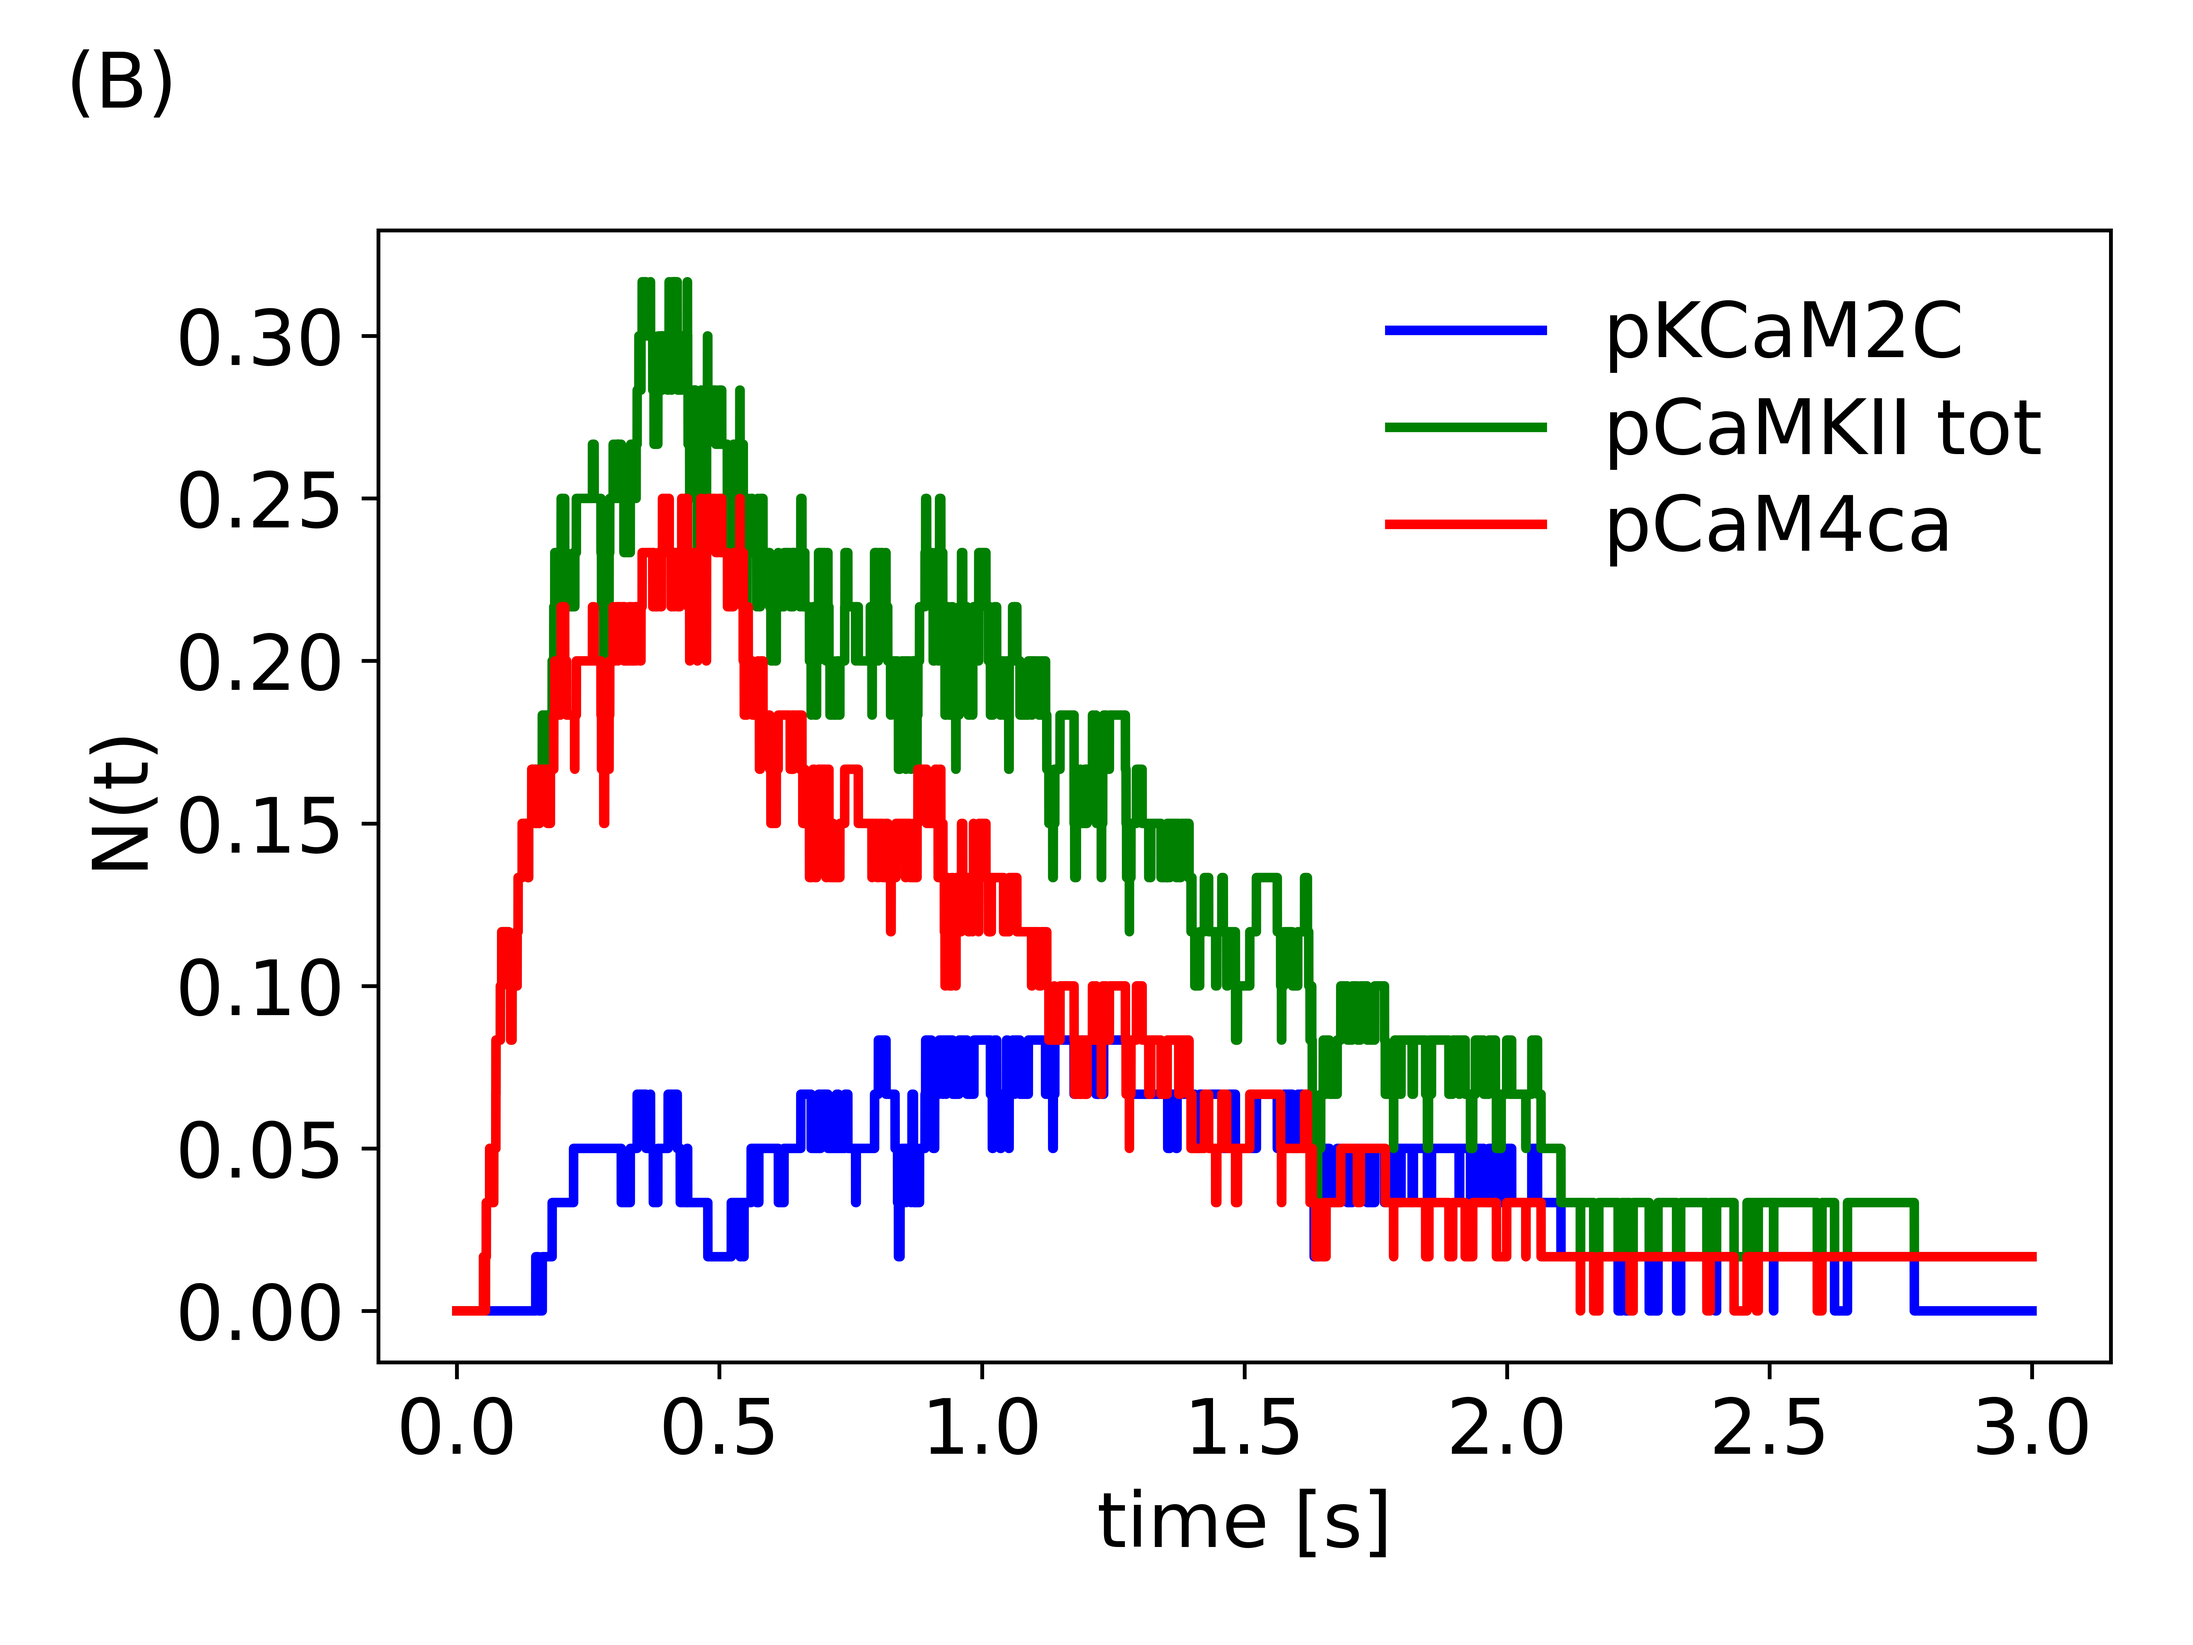
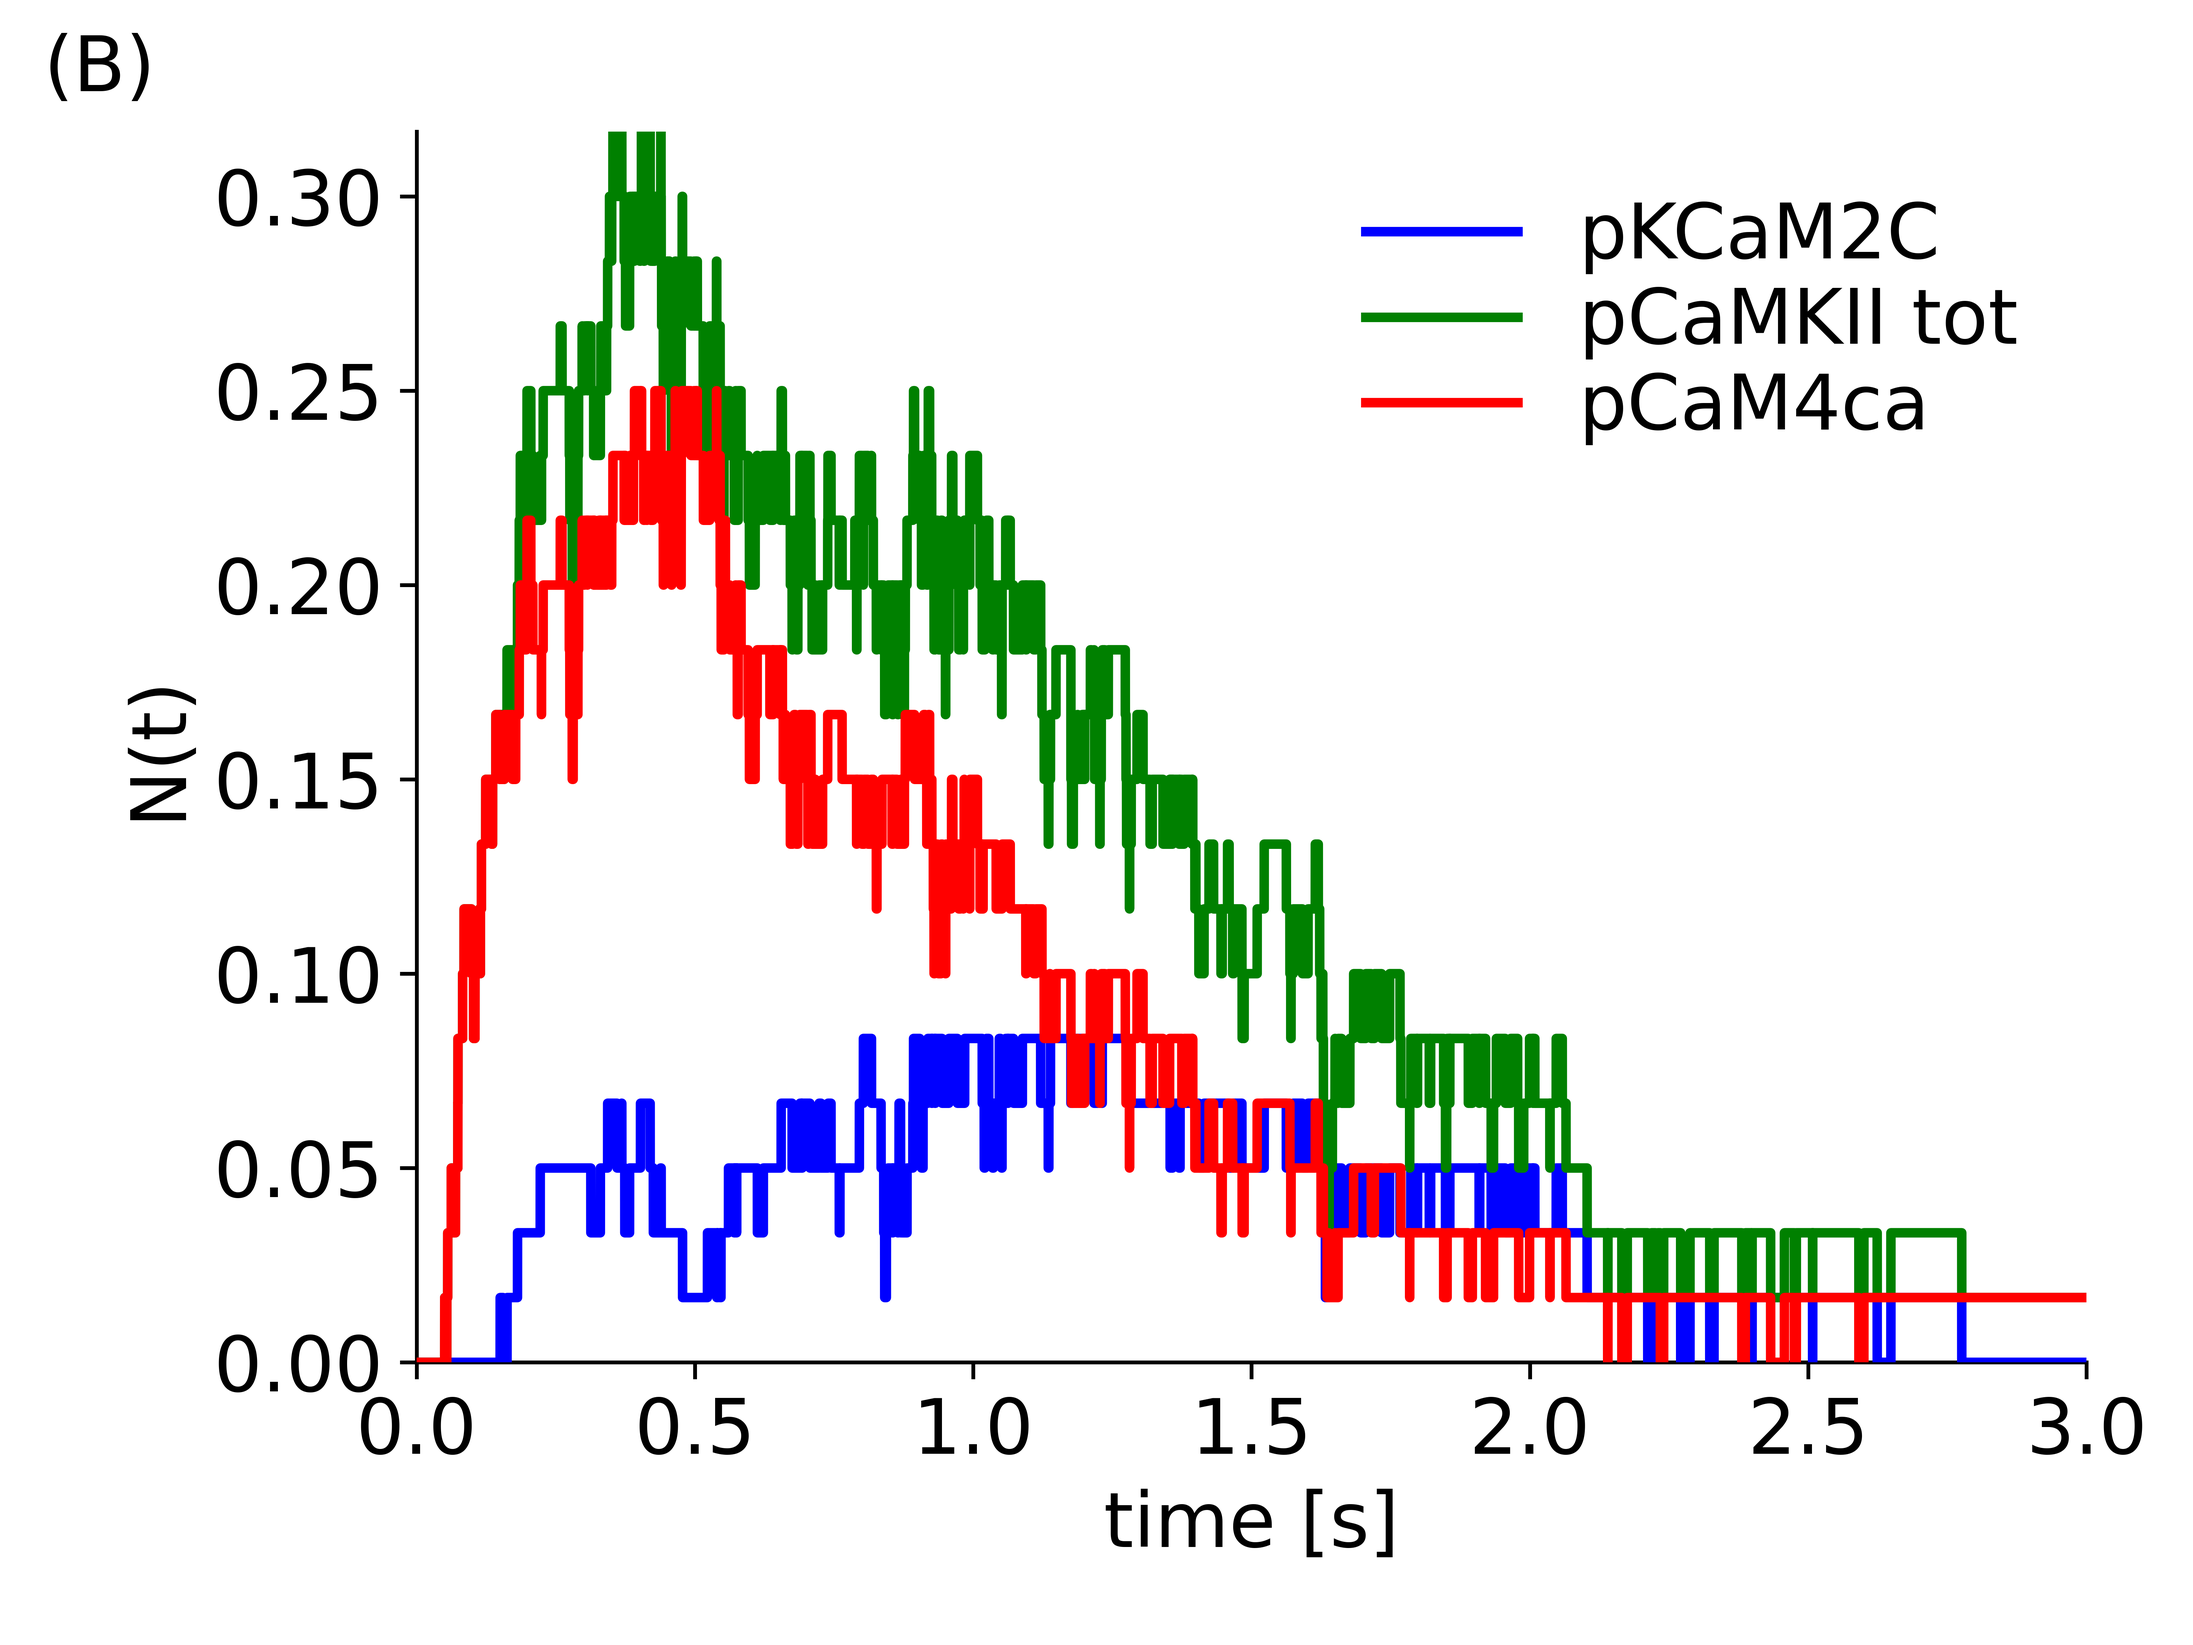
top and right spines removed globally, x and y margin set to 0 globally, figure indices are better positioned, legend font size and label spacing adjusted to fix overflow issue, diffusion constants expressed in scinot, performance bar text annotation force minimum x-coord of 1 and are precisely cent

diff --git a/_plotting/scripts/plot_hybrid.py b/_plotting/scripts/plot_hybrid.py
@@ -116,7 +116,7 @@ def load_csv(file):
     return df        
 
 # shared function to store plots
-def finalize_and_save_plot(out, fig):     
+def finalize_and_save_plot(out, fig):
     plt.xlabel("time [s]")
                 
     plt.grid(axis="x")
@@ -144,6 +144,8 @@ def plot_averages(dir, index_name):
                 data[name_ext[0]] = load_csv(file_path)
             
     fig, ax = plt.subplots()
+    ax.spines['right'].set_visible(False)
+    ax.spines['top'].set_visible(False)
     legend = []
     first = True
     for name,df in data.items():
@@ -159,19 +161,19 @@ def plot_averages(dir, index_name):
         else:    
             ax_plot(ax, df.index, yA)
             ax_plot(ax, df.index, yR)
-        
+
         if name == 'nfsim':
             name = 'NFSim'
         elif name == 'ssa':
             name = 'SSA'
         elif name == 'hybrid_D1000':
-            name = 'hybrid D=1e-5'
+            name = 'hybrid D=' + str(1e-5)
         elif name == 'particle_D1000':
-            name = 'particle D=1e-5'
+            name = 'particle D=' + str(1e-5)
         elif name == 'hybrid_D10':
-            name = 'hybrid D=1e-7'
+            name = 'hybrid D=' + str(1e-7)
         elif name == 'particle_D10':
-            name = 'particle D=1e-7'
+            name = 'particle D=' + str(1e-7)
         
         legend.append(name + ' - A (mean)')
         legend.append(name + ' - R (mean)')
@@ -183,12 +185,13 @@ def plot_averages(dir, index_name):
     plt.ylabel(Y_LABEL_N_PARAM_TIME)
     
     # add_plot_index(plt, ax, index_name, x_offset=INDEX_NAME_OFFSET)
-    plt.text(.02, .95, '(' + index_name + ')', horizontalalignment='left', verticalalignment='top', transform=fig.transFigure)
-    
+    plt.text(.02, .98, '(' + index_name + ')', horizontalalignment='left', verticalalignment='top', transform=fig.transFigure)
     finalize_and_save_plot("hybrid_" + os.path.basename(dir) + ".png", fig)
         
 def plot_low_pass(out, nfsim_seed, index_name):
     fig, ax = plt.subplots()
+    ax.spines['right'].set_visible(False)
+    ax.spines['top'].set_visible(False)
     
     # load base data
     df_nfsim = load_gdat_file('../nfsim/bng/nf_' + str(nfsim_seed).zfill(5) + '/test.gdat')
@@ -214,14 +217,14 @@ def plot_low_pass(out, nfsim_seed, index_name):
     plt.ylabel(Y_LABEL_N_PARAM_TIME)
     
     # add_plot_index(plt, ax, index_name, x_offset=INDEX_NAME_OFFSET)
-    plt.text(.02, .95, '(' + index_name + ')', horizontalalignment='left', verticalalignment='top', transform=fig.transFigure)
-
-    
+    plt.text(.02, .98, '(' + index_name + ')', horizontalalignment='left', verticalalignment='top', transform=fig.transFigure)
     finalize_and_save_plot(out, fig)
             
 
 def plot_peaks_error_bars(out, index_name):
     fig, ax = plt.subplots()
+    ax.spines['right'].set_visible(False)
+    ax.spines['top'].set_visible(False)
     
     # plt.legend(['A (low pass)', 'R (low pass)']) #original
     plt.legend(['A (low pass)', 'R (low pass)'], loc='center left', bbox_to_anchor=(1, 0.5))
@@ -254,10 +257,10 @@ def plot_peaks_error_bars(out, index_name):
     blue_patch = Line2D([0], [0], color='red', label='R (low pass peaks)')
     # plt.legend(handles=[red_patch, blue_patch]) #original
     plt.legend(handles=[red_patch, blue_patch], loc='center left', bbox_to_anchor=(1, 0.5))
+    # plt.legend(handles=[red_patch, blue_patch], loc='lower center', bbox_to_anchor=(1, 0.5))
 
     # add_plot_index(plt, ax, index_name, x_offset=INDEX_NAME_OFFSET)
-    plt.text(.05, .95, '(' + index_name + ')', horizontalalignment='left', verticalalignment='top',transform=fig.transFigure)
-    
+    plt.text(.02, .98, '(' + index_name + ')', horizontalalignment='left', verticalalignment='top',transform=fig.transFigure)
     finalize_and_save_plot(out, fig)
 
 

diff --git a/_plotting/scripts/plot_relative_performance.py b/_plotting/scripts/plot_relative_performance.py
@@ -84,7 +84,6 @@ def main():
 
     fig, ax = plt.subplots()
 
-
     # df['MCell3/MCell4'].plot(kind="barh", width = .8)
 
     dict = df.to_dict()
@@ -97,30 +96,44 @@ def main():
     cm = plt.cm.get_cmap('tab10')
     NUM_COLORS = len(names)
     colors = [cm(i) for i in range(NUM_COLORS)] # type is list
-    bars = plt.barh(names, results, color=colors, align='center')
+    bar_height = 0.8
+    bars = plt.barh(names, results, color=colors, align='center', height = bar_height)
 
     # rects = ax.barh(range(len(names)), results, color=colors)
 
     # ax.invert_yaxis()
-    ax.set_xlabel('Relative Performance')
-    ax.set_yticklabels(names)
     ax.spines['top'].set_visible(False)
     ax.spines['right'].set_visible(False)
     ax.spines['bottom'].set_visible(False)
     ax.spines['left'].set_visible(False)
     plt.axvline(x = 1, color = 'r')
+    ax.annotate('1', (1, len(names)), color='red')
+
+
+    if max(results) < 3:
+        ax.xaxis.set_ticks(np.arange(0, 4, 1))
+
+    ax.set_xlabel('Relative Performance')
+    ax.set_yticklabels(names)
 
     for bar in bars:
         width = bar.get_width()
         label_y = bar.get_y() + bar.get_height() / 2
-        plt.text(width, label_y, s="{:.2f}".format(width))
+        if width < 1 :
+            plt.annotate("{:.2f}".format(width), xy=(1, label_y), ha='left', va='center')
+        else:
+            plt.annotate("{:.2f}".format(width), xy=(width, label_y), ha='left', va='center')
 
 
         # add_plot_index(plt, ax, args.index_name)
         # add_plot_index(plt, ax, args.index_name, x_offset=-.5)
         # add_plot_index(plt, ax, args.index_name)
         #(plt, ax, name, x_offset = 0)
-    plt.text(.03, .95, '(' + args.index_name + ')', horizontalalignment='left',verticalalignment='top', transform=fig.transFigure)
+    # plt.text(.03, .95, '(' + args.index_name + ')', horizontalalignment='left',verticalalignment='top', transform=fig.transFigure)
+    plt.text(.02, .98, '(' + args.index_name + ')', horizontalalignment='left',verticalalignment='top', transform=fig.transFigure)
+
+
+    plt.autoscale()
 
     # plt.savefig(args.output, dpi=OUTPUT_DPI) # 'dpi' now controlled by master stylesheet
     plt.savefig(args.output)

diff --git a/_plotting/scripts/plot_averages_plot_per_observable.py b/_plotting/scripts/plot_averages_plot_per_observable.py
@@ -115,6 +115,8 @@ def main():
         #print("Processing observable " + obs)
         
         fig,ax = plt.subplots()
+        ax.spines['right'].set_visible(False)
+        ax.spines['top'].set_visible(False)
         #ax.set_title(obs)
         
         legend_names = []
@@ -143,12 +145,16 @@ def main():
     
             legend_names.append(labels[i] + " " + obs)
 
+        plt.legend(legend_names)
+
 
         plt.xlabel(X_LABEL_TIME_UNIT_S)
         plt.ylabel(Y_LABEL_N_PARAM_TIME)
-        plt.legend(legend_names)
+
         # add_plot_index(plt, ax, index_names[index], x_offset=-0.03)
-        plt.text(.03, .95, '(' + index_names[index] + ')', horizontalalignment='left', verticalalignment='top', transform=fig.transFigure)
+        # plt.text(.03, .95, '(' + index_names[index] + ')', horizontalalignment='left', verticalalignment='top', transform=fig.transFigure)
+        plt.text(.02, .98, '(' + index_names[index] + ')', horizontalalignment='left', verticalalignment='top',
+                 transform=fig.transFigure)
         # plt.savefig(obs + '.png', dpi=OUTPUT_DPI) # 'dpi' now controlled by master stylesheet
         plt.savefig(obs + '.png')
         

diff --git a/_plotting/scripts/plot_trajectories_single_plot.py b/_plotting/scripts/plot_trajectories_single_plot.py
@@ -155,6 +155,8 @@ def main():
     clrs = ['b', 'g', 'r'] 
 
     fig,ax = plt.subplots()
+    ax.spines['right'].set_visible(False)
+    ax.spines['top'].set_visible(False)
 
     linestyles = [
         'solid',
@@ -248,6 +250,7 @@ def main():
         plt.legend(loc='center left', bbox_to_anchor=(1, 0.5))  # original
     else:
         plt.legend(loc='upper right')  # jy
+    plt.tight_layout()
 
 
     # plt.legend(loc='center left', bbox_to_anchor=(1, 0.5)) #original
@@ -260,7 +263,7 @@ def main():
     
     if opts.index_name:
         # add_plot_index(plt, ax, opts.index_name)
-        plt.text(.03, .97, '(' + opts.index_name + ')', horizontalalignment='left', verticalalignment='top', transform=fig.transFigure)
+        plt.text(.02, .98, '(' + opts.index_name + ')', horizontalalignment='left', verticalalignment='top', transform=fig.transFigure)
     
     # plt.savefig(opts.output, dpi=OUTPUT_DPI) # 'dpi' now controlled by master stylesheet
     plt.savefig(opts.output)
